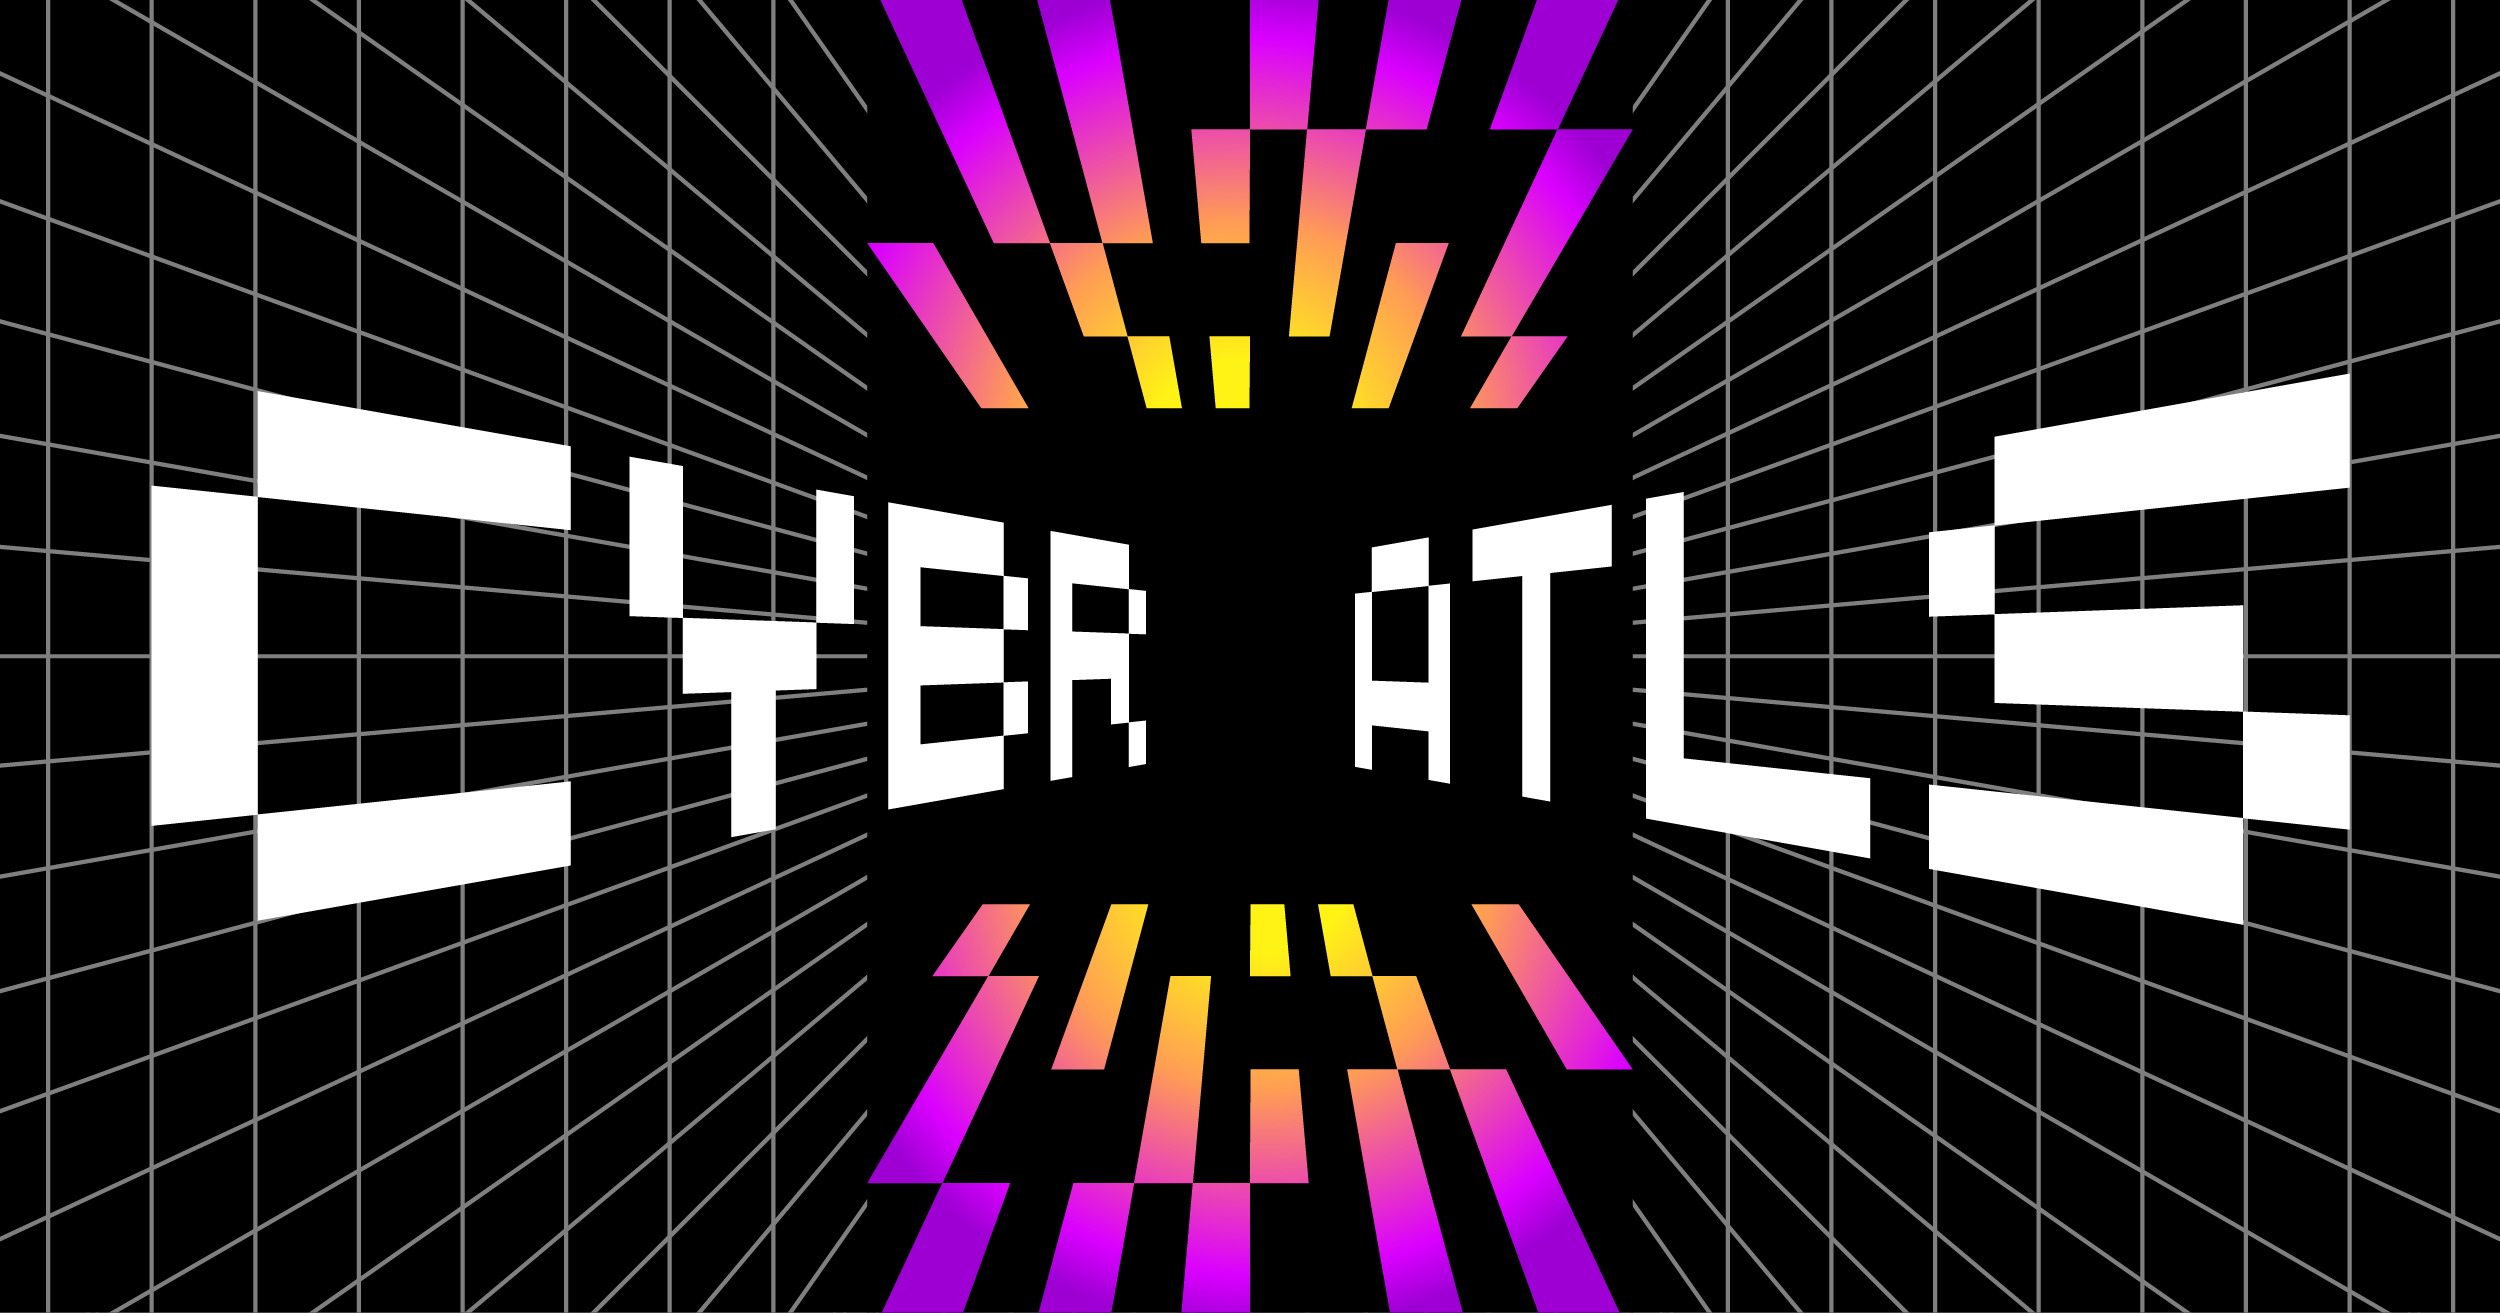
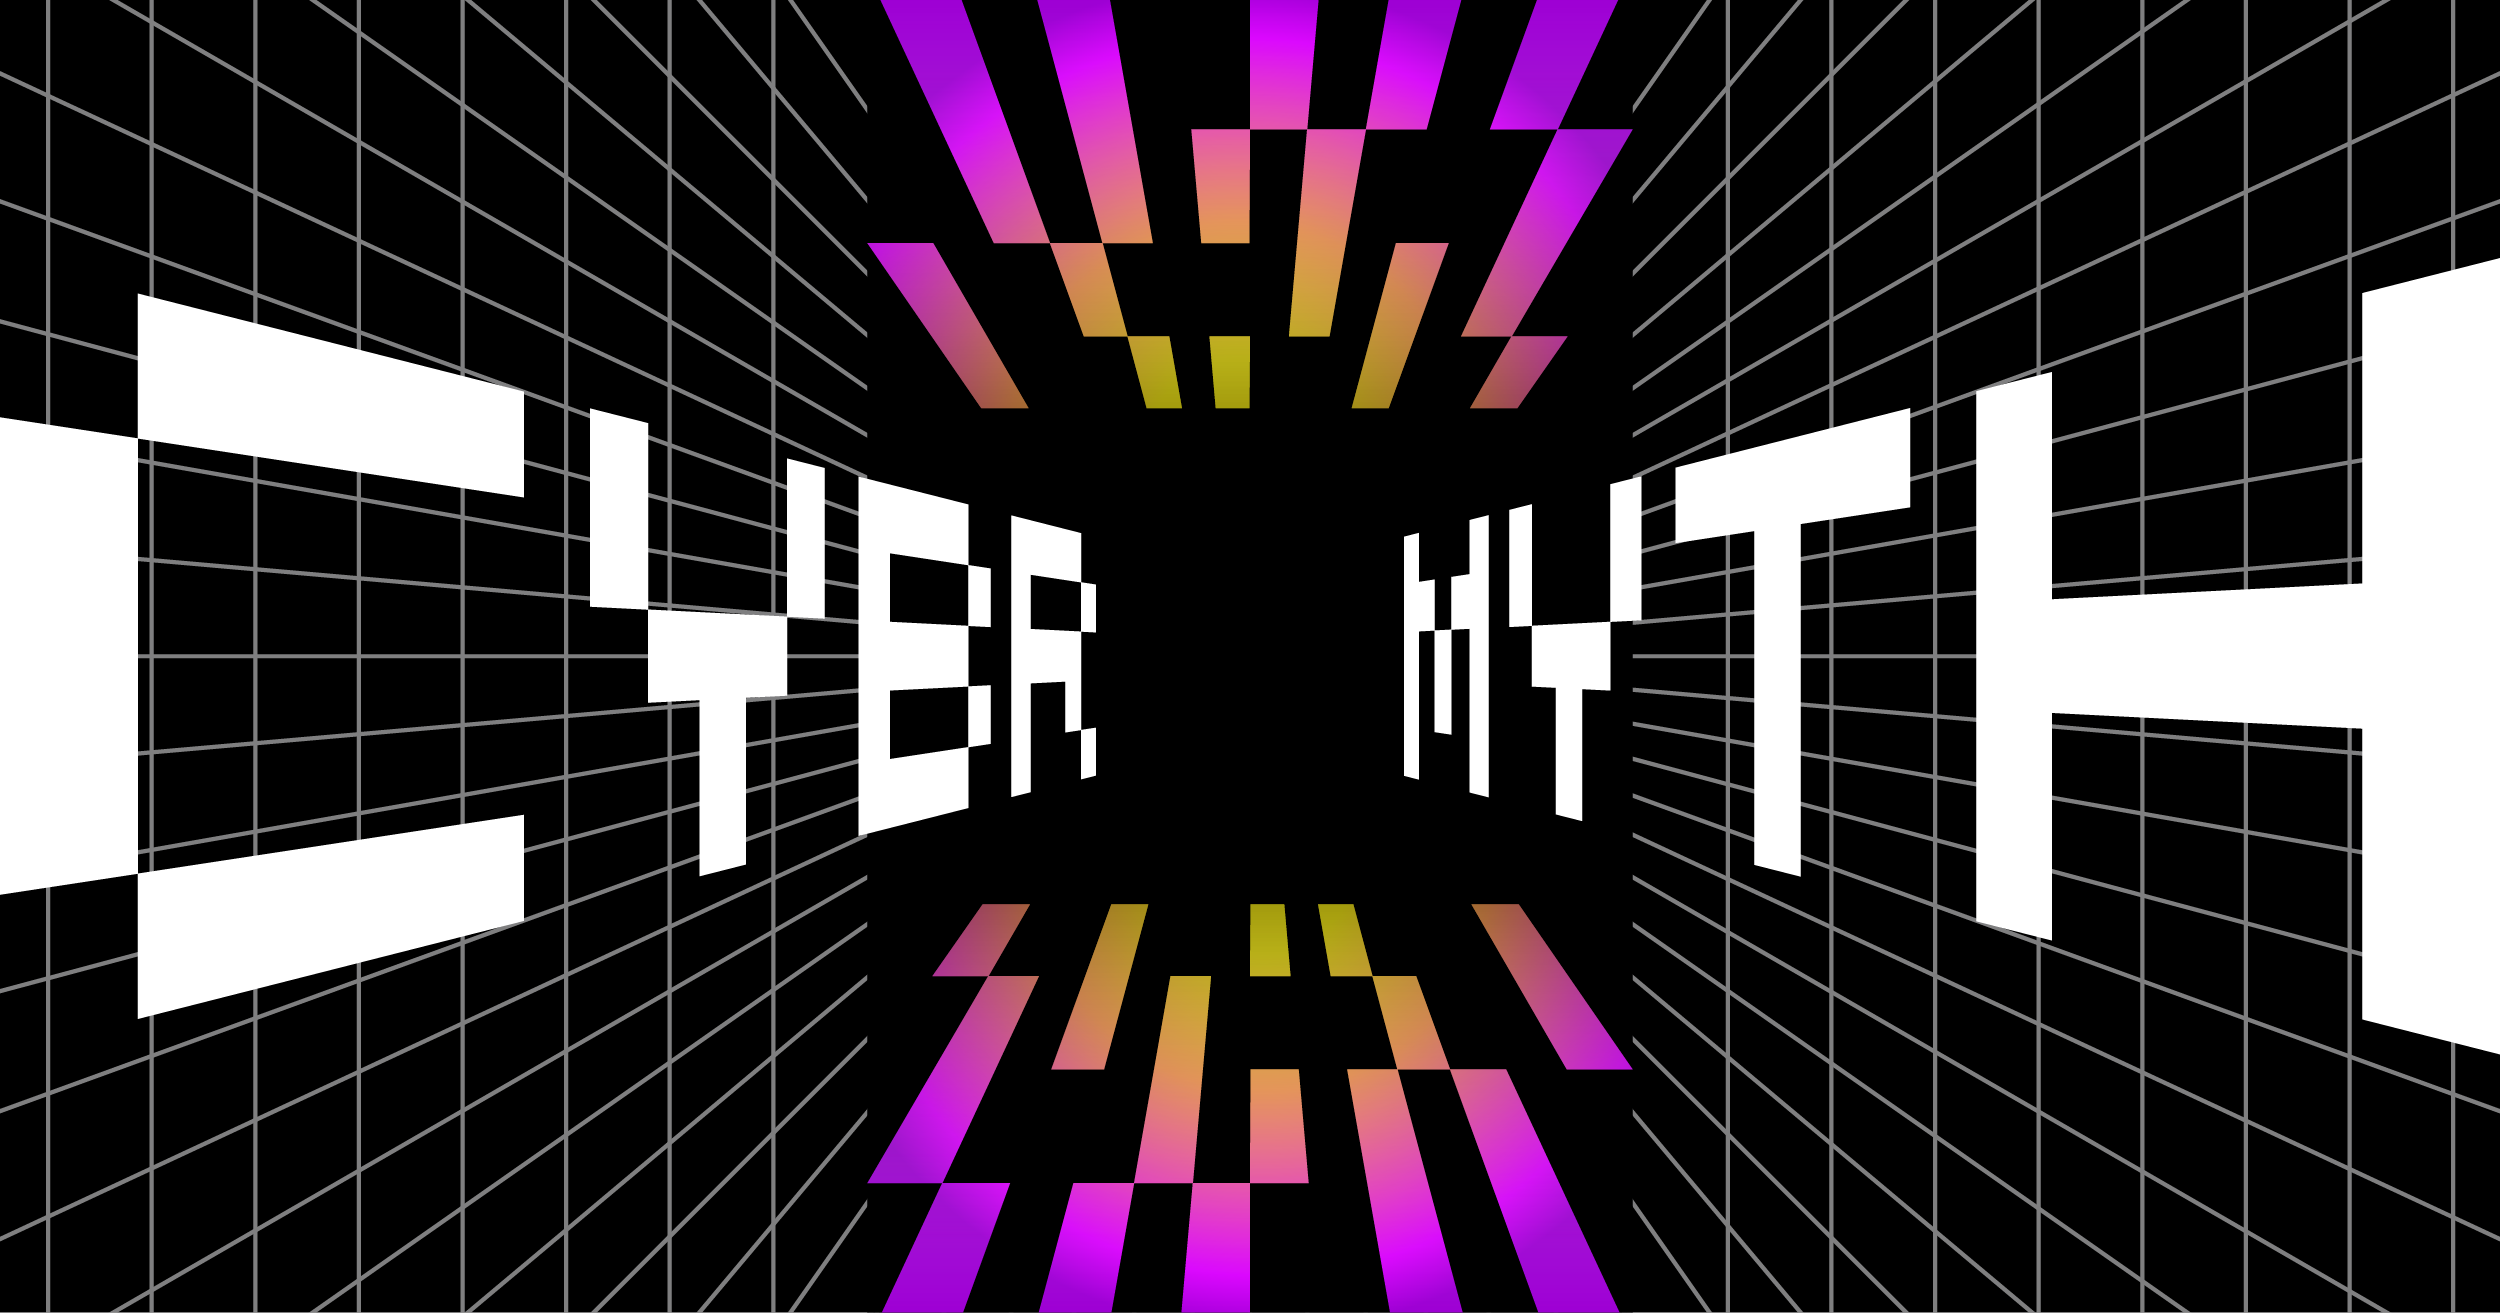
nameChange-Cyber-Myth

diff --git a/public/index.html b/public/index.html
@@ -5,16 +5,16 @@
     <link rel="icon" href="%PUBLIC_URL%/favicon.ico" />
     <meta name="viewport" content="width=device-width, initial-scale=1" />
     <meta name="theme-color" content="#000000" />
-    <meta name="CyberAtlas" content="The Metaverse Map Across Taiwan" />
+    <meta name="CyberMyth" content="The Metaverse Map Across Taiwan" />
     <meta
       property="og:description"
-      content="CyberAtlas integrates with many NFT projects in Taiwan to maximize the benefits of stores and communities. NFT verification is performed using CyberAuth technology for official Line accounts."
+      content="CyberMyth integrates with many NFT projects in Taiwan to maximize the benefits of stores and communities. NFT verification is performed using CyberAuth technology for official Line accounts."
     />
-    <meta property="og:site_name" content="CyberAtlas" />
+    <meta property="og:site_name" content="CyberMyth" />
     <meta property="og:image" content="%PUBLIC_URL%/og.png" />
     <meta
       name="description"
-      content="CyberAtlas integrates with many NFT projects in Taiwan to maximize the benefits of stores and communities. NFT verification is performed using CyberAuth technology for official Line accounts."
+      content="CyberMyth integrates with many NFT projects in Taiwan to maximize the benefits of stores and communities. NFT verification is performed using CyberAuth technology for official Line accounts."
     />
 
     <meta name="apple-mobile-web-app-capable" content="yes" />
@@ -69,7 +69,7 @@
       media="(device-width: 1024px) and (device-height: 1366px) and (-webkit-device-pixel-ratio: 2)"
       rel="apple-touch-startup-image"
     />
-    <title>CyberAtlas</title>
+    <title>CyberMyth</title>
     <link rel="apple-touch-icon" href="%PUBLIC_URL%/logo192.png" />
     <!--
       manifest.json provides metadata used when your web app is installed on a

diff --git a/src/components/header/Header.js b/src/components/header/Header.js
@@ -63,7 +63,7 @@ export default function ThemeUsage(props) {
           src={logoMap}
         /> */}
         <Typography variant="body16mediumPixel">
-          CYBER ATLAS
+          CYBER-MYTH
         </Typography>
       </Stack>
       <Stack direction="row" alignItems="center" spacing="16px">

diff --git a/src/components/header/HeaderDrawer.js b/src/components/header/HeaderDrawer.js
@@ -18,7 +18,7 @@ import cyberAuthLogo from "assets/images/cyberauth.png"
 
 const MenuList = [
   {
-    title: "ATLAS",
+    title: "MAP",
     to: "",
   },
   {

diff --git a/README.md b/README.md
@@ -68,4 +68,4 @@ This section has moved here: [https://facebook.github.io/create-react-app/docs/d
 ### `npm run build` fails to minify
 
 This section has moved here: [https://facebook.github.io/create-react-app/docs/troubleshooting#npm-run-build-fails-to-minify](https://facebook.github.io/create-react-app/docs/troubleshooting#npm-run-build-fails-to-minify)
-# CyberAtlasTest
+# CyberMyth
